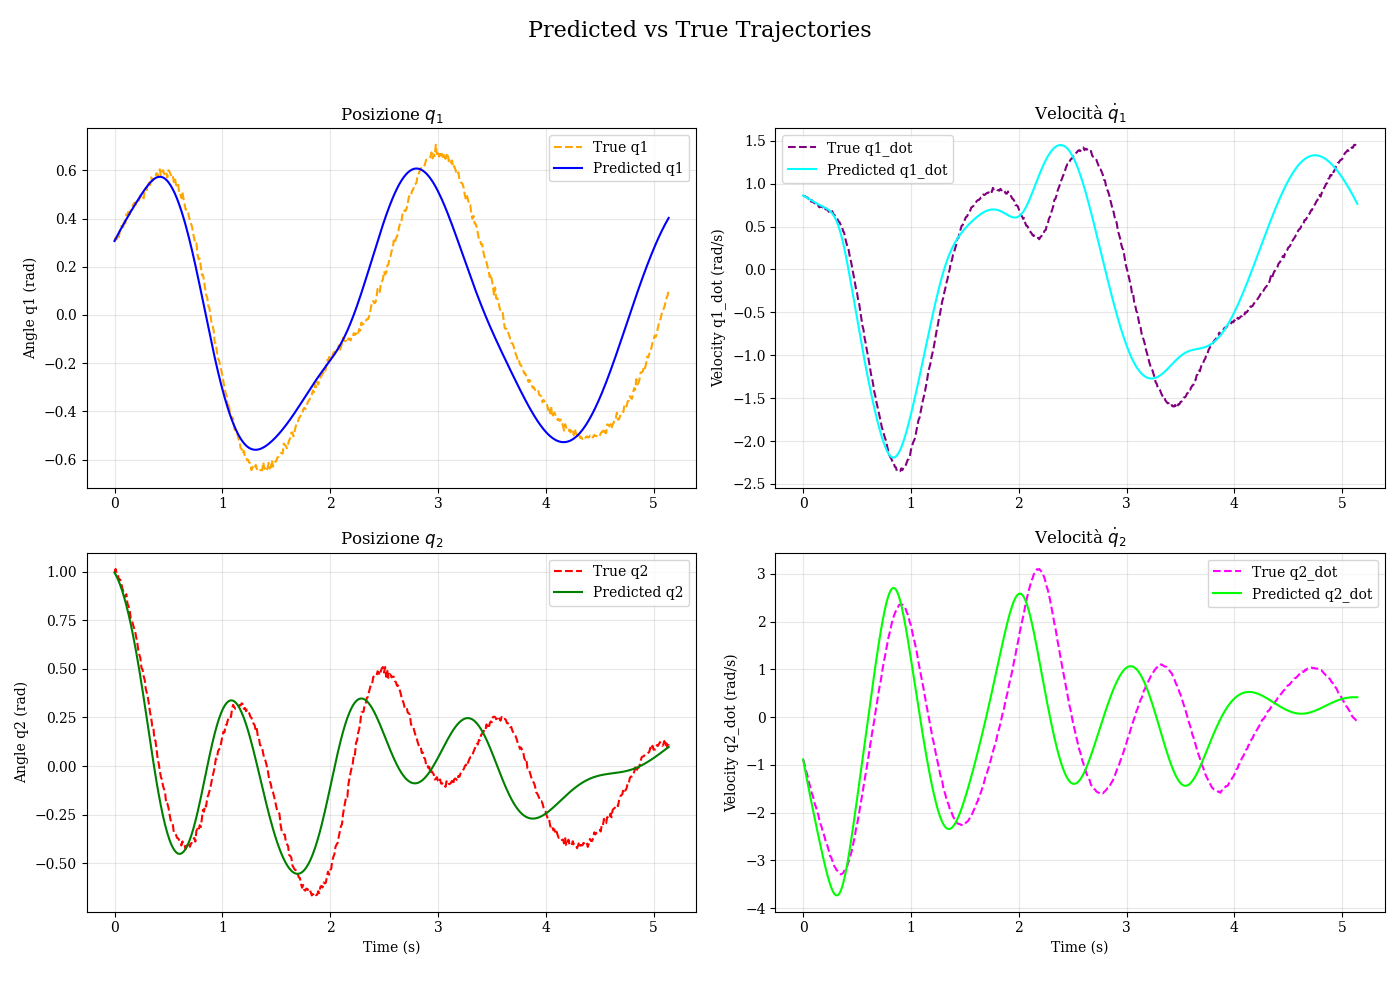
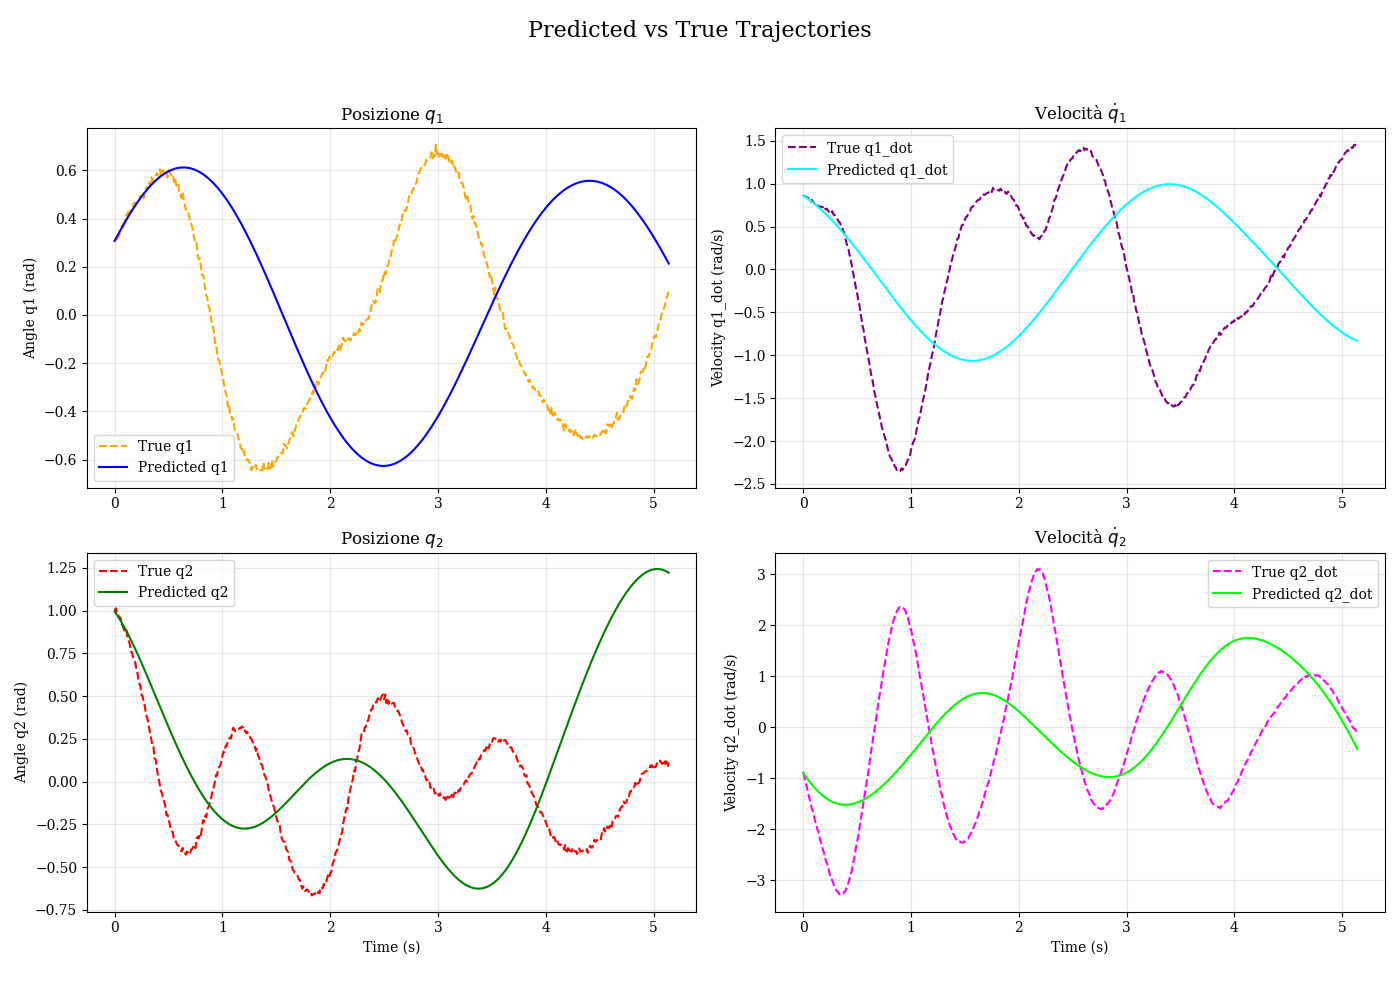
Tried custom physics loss on rnn

diff --git a/branch1/utils/training.py b/branch1/utils/training.py
@@ -415,7 +415,7 @@ def train_nn_model(
                 #print(xb.shape)
                 #print(yb.shape)
                 y_pred = model(xb)
-                loss = loss_fn(y_pred, yb)
+                loss = loss_fn(y_pred, yb) 
                 loss.backward()
                 # print the gradients and lr of the model parameters
                 if show_grad:
@@ -742,16 +742,19 @@ def physics_loss(y_pred, y_true, model = None):
 
     if model is not None:
         dyn = model.f 
-        
+        print("I am here")
         # Regolarizzazione L2 sui parametri (corretto per tensori)
-        reg_friction = (dyn.logb1**2).mean() + (dyn.logb2**2).mean()
-        reg_length   = (dyn.logl1**2).mean() + (dyn.logl2**2).mean()
-        reg_masses   = (dyn.logm1**2).mean() + (dyn.logm2**2).mean()
+        reg_friction = torch.exp(dyn.logb1**2).mean() + torch.exp(dyn.logb2**2).mean()
+        reg_length   = torch.exp(dyn.logl1**2).mean() + torch.exp(dyn.logl2**2).mean()
+        reg_masses   = torch.exp(dyn.logm1**2).mean() + torch.exp(dyn.logm2**2).mean()
 
         # Pesi della regolarizzazione (lambda)
-        lambda_frict = 0.1  
+        lambda_frict = 0.01  
         lambda_len   = 0.1 
         lambda_masses = 0.01
+
+        #print(f"Regularization terms: Friction: {reg_friction.item():.6f}, Length: {reg_length.item():.6f}, Masses: {reg_masses.item():.6f}")
+        #print(f"Parameters: b1: {torch.exp(dyn.logb1).item():.4f}, b2: {torch.exp(dyn.logb2).item():.4f}, l1: {torch.exp(dyn.logl1).item():.4f}, l2: {torch.exp(dyn.logl2).item():.4f}, m1: {torch.exp(dyn.logm1).item():.4f}, m2: {torch.exp(dyn.logm2).item():.4f}")
 
         total_loss = base_loss + lambda_frict * reg_friction + lambda_len * reg_length + lambda_masses * reg_masses
         

diff --git a/branch1/main/rnn.py b/branch1/main/rnn.py
@@ -108,7 +108,7 @@ def main(train_path: str,
             print(f"\nParams attuali: m2={dPend.get_m2().item():.3f}, l2={dPend.get_l2().item():.3f}, b2={dPend.get_b2().item():.3f}")
             
             # Reset Early Stopping 
-            early_stopper = EarlyStopping(patience=15)
+            early_stopper = EarlyStopping(patience=patience)
 
             # Datasets
             ds_train = KNGLDataset(X_train.astype(np.float32), Y_train.astype(np.float32), horizon=steps)
@@ -258,7 +258,7 @@ if __name__ == "__main__":
 
     parser.add_argument('--training', action='store_true', default=True)
     parser.add_argument('--epochs', type=int, default=10)
-    parser.add_argument('--patience', type=int, default=15)
+    parser.add_argument('--patience', type=int, default=3)
     parser.add_argument('--lr', type=float, default=1e-2)
     parser.add_argument('--wd', type=float, default=0)
     parser.add_argument('--batch_size', type=int, default=512)
